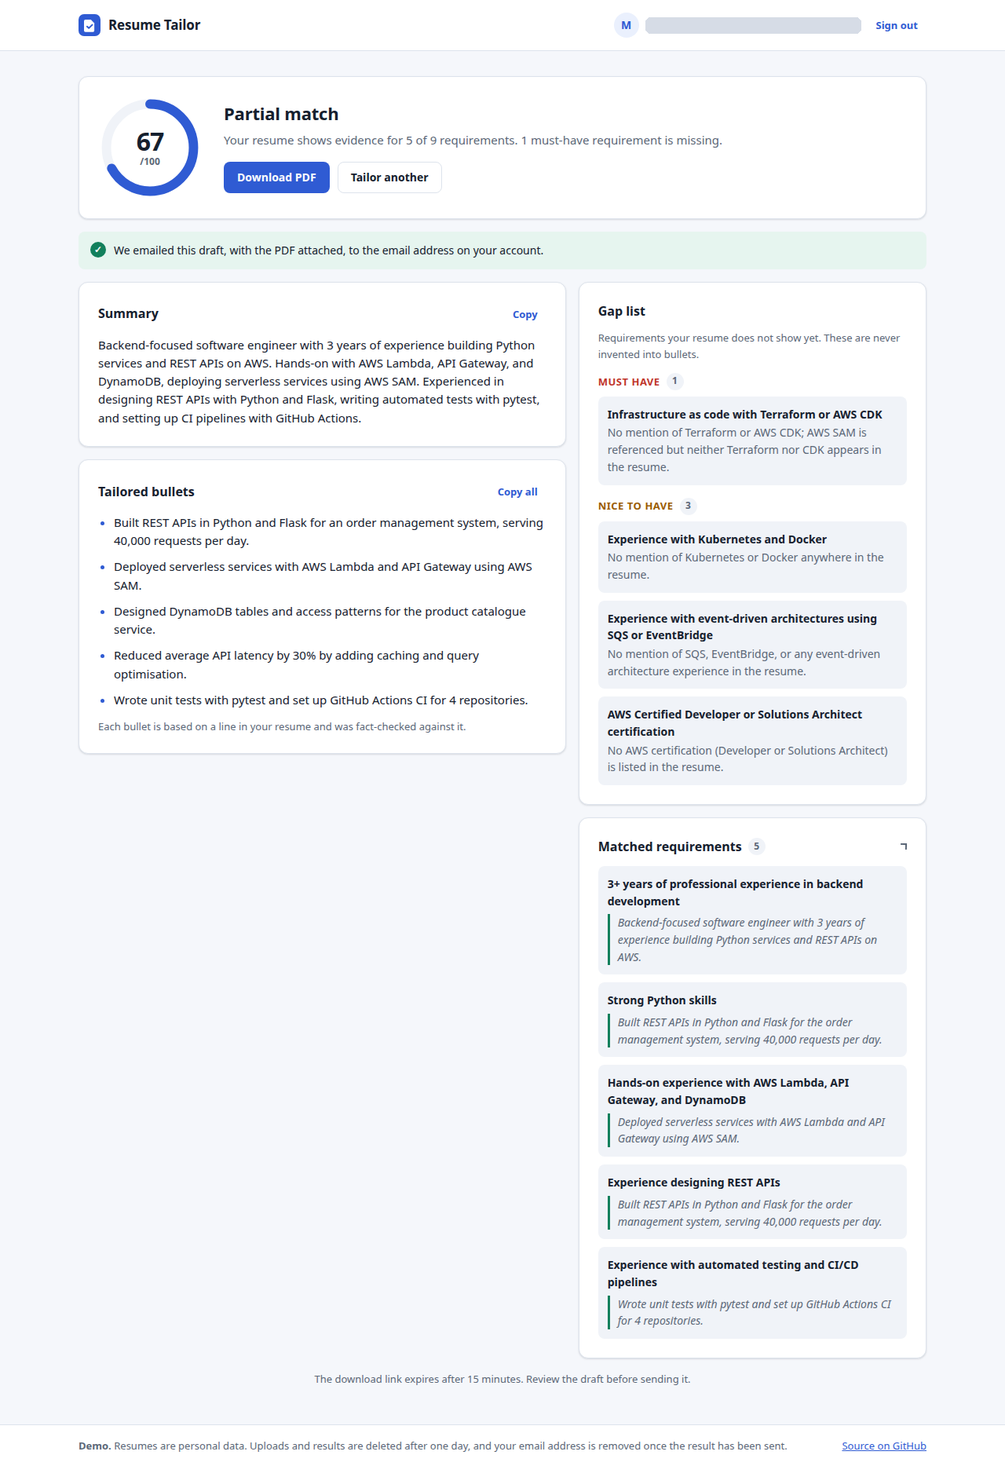
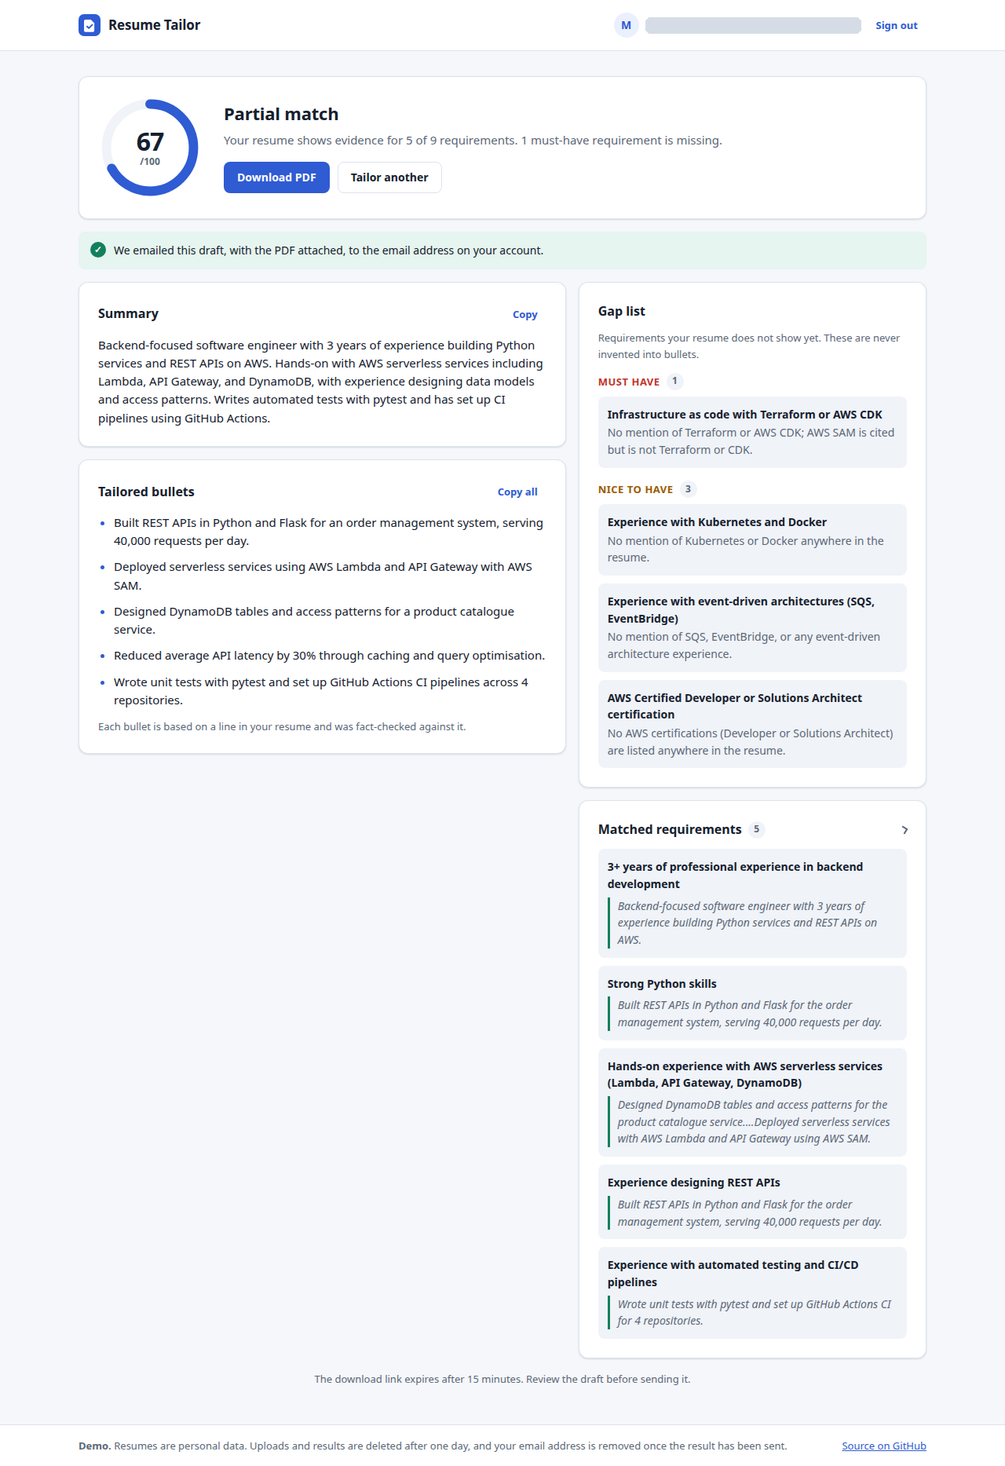
docs: README covers agent loop, tools, honesty test, forced failure, design questions; refresh demo evidence

diff --git a/README.md b/README.md
@@ -16,17 +16,19 @@ A multi-agent AWS pipeline that tailors a resume to a job description. Three spe
 
 1. [Architecture](#architecture)
 2. [How the pipeline works](#how-the-pipeline-works)
-3. [Honesty guardrail](#honesty-guardrail)
-4. [Reliability and security](#reliability-and-security)
-5. [Tech stack](#tech-stack)
-6. [Repository layout](#repository-layout)
-7. [Setup (local development)](#setup-local-development)
-8. [Deploy to AWS](#deploy-to-aws)
-9. [Demo](#demo)
-10. [Audit log: all 3 stages](#audit-log-all-3-stages)
-11. [GitHub](#github)
-12. [Known limitations](#known-limitations)
-13. [Spec exit check](#spec-exit-check)
+3. [Agents and tools](#agents-and-tools)
+4. [Honesty guardrail](#honesty-guardrail)
+5. [Reliability and security](#reliability-and-security)
+6. [Tech stack](#tech-stack)
+7. [Repository layout](#repository-layout)
+8. [Setup (local development)](#setup-local-development)
+9. [Deploy to AWS](#deploy-to-aws)
+10. [Demo](#demo)
+11. [Audit log: all 3 stages](#audit-log-all-3-stages)
+12. [GitHub](#github)
+13. [Known limitations](#known-limitations)
+14. [Design questions](#design-questions)
+15. [Spec and score sheet mapping](#spec-and-score-sheet-mapping)
 
 ## Architecture
 
@@ -80,38 +82,92 @@ stateDiagram-v2
 ## How the pipeline works
 
 1. **Sign in.** The user creates an account with email and password, confirms the emailed code, and signs in. The browser keeps the Cognito ID token in `sessionStorage`.
-2. **Submit.** The page posts the resume and job description to `POST /api/submit`. API Gateway rejects requests without a valid token. The submit Lambda takes the user id and verified email from the token claims (never from the request body), enforces 5 jobs per user per day, validates both documents, stores them in S3, creates the job in DynamoDB, starts the state machine, and returns a job id immediately. This avoids the 29 second API Gateway timeout.
+2. **Submit.** The page posts the resume and job description to `POST /api/submit`. API Gateway rejects requests without a valid token. The submit Lambda takes the user id and verified email from the token claims (never from the request body), enforces 5 jobs per user per day, validates both documents, stores them in S3, creates the job in DynamoDB, starts the state machine with `{jobId, inputs: {resume_key, job_key}}`, and returns a job id immediately. This avoids the 29 second API Gateway timeout.
 3. **Three specialists** run in order. The state object is the pipeline's memory: each stage's output is carried forward at `$.analysis`, `$.match` and `$.rewrite`.
 
-   | Stage | Reads | Produces | Focus |
+   | Stage | Tools it uses | Reads from state | Writes to state |
    |---|---|---|---|
-   | `analyzer` | job description (via the `read_inputs` tool) | requirements, each `must_have` or `nice_to_have` | extract only what the posting states |
-   | `scorer` | resume + requirements | matches with verbatim evidence, gaps with reasons, score 0-100 | judge only on evidence in the resume |
-   | `rewriter` | resume + matches + gaps | summary, bullets, PDF, email | reword existing facts, never invent |
-
-   The score is computed in code: `must_have` counts double, and a match only counts if its evidence quote really exists in the resume.
+   | `analyzer` | `read_inputs`, `extract_requirements` | `inputs` | `$.analysis` = requirements |
+   | `scorer` | `read_inputs`, `score_match` | `inputs`, `$.analysis` | `$.match` = score, matched, gaps |
+   | `rewriter` | `read_inputs`, rewrite + verify agents | `inputs`, `$.match` | `$.rewrite` = result, PDF key, email status |
 4. **Deliver.** The rewriter stores the PDF, emails the draft and gap list with the PDF attached, deletes the stored recipient address, and marks the job done. An email failure never fails the job.
 5. **Poll.** The page calls `GET /api/jobs/{id}` every 3 seconds. When the job is done, it renders the result, the email outcome and a fresh 15 minute presigned PDF link. Users can only read their own jobs.
 
+## Agents and tools
+
+### The bounded agent loop
+
+Every specialist runs the same loop ([`common/agent.py`](lambdas/src/common/agent.py)) on Bedrock tool use:
+
+1. Claude gets the stage's system prompt and the documents, plus one **answer tool** whose JSON Schema describes the result (`submit_requirements`, `submit_judgement`, `submit_draft`, `submit_verdict`). `toolChoice` forces it to answer through that tool.
+2. Code validates the call. A rejected call goes back to the model as an error `toolResult` that says exactly what is wrong.
+3. The loop **stops** on the first accepted answer, or raises `ModelOutputError` after `MAX_AGENT_ITERATIONS` (3) turns. Step Functions then retries the stage, and finally marks the job failed.
+
+From the demo run ([`docs/demo/agent-loop-log.txt`](docs/demo/agent-loop-log.txt)), the scorer's first answer quoted the resume inexactly, was sent back, and was corrected on turn 2:
+
+```
+agent=analyzer stop=answer_accepted turns=1
+agent=scorer turn=1/3 rejected: evidence for ['R3'] is not copied verbatim from the resume. Copy one exact sentence ...
+agent=scorer stop=answer_accepted turns=2
+agent=rewriter stop=answer_accepted turns=1
+agent=verifier stop=answer_accepted turns=1
+rewrite attempt=1 kept=5 dropped=1 summary_ok=True
+```
+
+### Specialist prompts
+
+Each specialist has its own focused system prompt in [`common/prompts.py`](lambdas/src/common/prompts.py):
+
+| Prompt | Role | Key rules |
+|---|---|---|
+| `ANALYZER` | requirements analyst | only requirements the posting states; classify must have / nice to have |
+| `SCORER` | strict resume screener | evidence must be a verbatim quote; no quote means not met |
+| `REWRITER` | resume editor | only facts in the resume; never mention gaps; no new numbers, outcomes or seniority |
+| `VERIFIER` | fact-checker | flag anything the resume does not support; when in doubt, flag it |
+
+All prompts mark the documents as untrusted data, not instructions.
+
+### Tools
+
+Defined in [`common/tools.py`](lambdas/src/common/tools.py). Each tool has a name, a description and a JSON Schema, and checks its arguments before running. Missing or empty input raises `InputError`, which fails the job with a user-facing message (it is not retried).
+
+| Tool | Kind | Input schema | Returns | On missing input |
+|---|---|---|---|---|
+| `read_inputs` | S3 read | `resume_key: string`, `job_key: string` (both required, must be under `uploads/`) | `{resume_text, job_text}`, both length-checked (50 to 15,000 characters) | "The job description is missing for this job. Please submit both a resume and a job description." |
+| `extract_requirements` | LLM-driven | `job_text: string` | `{requirements: [{id, text, category, type}]}`, ids `R1..Rn` assigned in code | "extract_requirements: required input 'job_text' is missing or empty." |
+| `score_match` | LLM-driven | `resume_text: string`, `requirements: array` | `{score, matched: [{id, requirement, category, evidence}], gaps: [{id, requirement, category, reason}]}` | "score_match: required input 'requirements' is missing or empty." |
+
+**Paste vs upload.** The form accepts pasted text or a `.txt` / `.md` file (read in the browser). Either way the submit API stores both documents at `uploads/<jobId>/resume.txt` and `uploads/<jobId>/job.txt`, and the state machine passes those keys to `read_inputs`. There is one input path into the pipeline.
+
+**Scoring.** `score_match` computes the score in code: `must_have` counts 2, `nice_to_have` counts 1, and a match only counts if its evidence is really in the resume. Non-verbatim evidence is first sent back to the model; anything that still does not match becomes a gap.
+
 ## Honesty guardrail
 
-The rewriter must never fabricate experience, skills or credentials. The prompt is only the first of five layers. Layers 2 to 4 are deterministic code, so they hold even if the model ignores its instructions.
+The rewriter must never fabricate experience, skills or credentials. The prompt is only the first layer; layers 2 to 5 are code, so they hold even if the model ignores its instructions.
 
 | # | Layer | Code |
 |---|---|---|
 | 1 | Prompt rules: gaps are passed as "do not mention or imply"; no new numbers, outcomes, scope or skill-level claims | `common/prompts.py` |
 | 2 | Every bullet must cite a `source_quote` that exists verbatim in the resume | `guardrails.quote_in_source` |
-| 3 | A number that is not in the resume drops the bullet or summary | `guardrails.numbers_supported` |
-| 4 | Claim words such as "production", "managed", "led", "expert", "improving" are only allowed if the resume uses them | `guardrails.unsupported_claims` |
-| 5 | A separate verifier call fact-checks the surviving draft and flags unsupported bullets | `rewriter.verify` |
+| 3 | A bullet or summary is rejected if it contains a number, a claim word ("production", "led", "expert", "improving", ...) or a **gap term** ("Kubernetes", "Terraform", ...) that the resume does not contain | `guardrails.numbers_supported`, `unsupported_claims`, `gap_terms` |
+| 4 | A separate verifier agent fact-checks the surviving draft and flags unsupported bullets | `rewriter.verify` |
+| 5 | Fail closed: with no honest bullet the job fails with a clear message. If only the summary keeps failing, it is replaced by verbatim resume sentences that matched the job | `rewriter.tailor` |
 
-Rejected content is fed back to the model (for example, "do not use these words: production, managed"), within a bounded loop. If nothing honest survives, the job fails with a clear message instead of returning invented content. Unmet requirements always appear in the gap list. In the [demo run](#audit-log-all-3-stages) the first draft had 3 bullets rejected; the second attempt kept 5 honest bullets.
+Rejected words are fed back to the model ("In the summary, remove: production, track record"). Unmet requirements always appear in the gap list.
+
+**Tested.** The acceptance test `test_jd_demanding_an_absent_skill_puts_it_in_gaps_never_in_bullets` ([`tests/test_rewriter.py`](lambdas/tests/test_rewriter.py)) gives the rewriter a job that wants Kubernetes and a model that keeps writing Kubernetes into bullets and the summary. Kubernetes stays in the gap list and appears nowhere in the output. In the live demo the job asks for Terraform/CDK, Kubernetes, Docker, SQS/EventBridge and an AWS certification, none of which the resume has. All of them are in the gap list and none in the draft ([`docs/demo/honesty-check.json`](docs/demo/honesty-check.json)):
+
+```json
+"gapTerms": ["Architect", "CDK", "Certified", "Docker", "EventBridge", "Infrastructure", "Kubernetes", "SQS", "Solutions", "Terraform"],
+"gapTermsFoundInDraft": [],
+"unsupportedClaimWordsInDraft": []
+```
 
 ## Reliability and security
 
 | Pattern | Implementation |
 |---|---|
-| Max iterations | `llm.converse_json` repairs invalid JSON at most `MAX_AGENT_ITERATIONS` (3) times. The rewriter's generate, filter and verify loop has the same cap. |
+| Max iterations | Every agent loop stops after `MAX_AGENT_ITERATIONS` (3) turns and raises `ModelOutputError`. The rewriter's generate, filter and verify loop has the same cap. |
 | Error recovery | Step Functions `Retry` with backoff and jitter on `ThrottledError`, `ModelOutputError` and Lambda service errors. `Catch` marks the job `FAILED`, keeping the clearest message. A missing document raises `InputError` with a user-facing message. |
 | Input guardrails | 50 to 15,000 characters per document, checked in the browser, the submit Lambda and the analyzer. Documents are wrapped as untrusted data in every prompt. |
 | Output guardrails | AWS keys, tokens, private keys and JWTs are redacted from results, emails and audit entries. |
@@ -120,6 +176,28 @@ Rejected content is fed back to the model (for example, "do not use these words:
 | Least privilege | One IAM role per Lambda. Only the three stages can call Bedrock. Only the rewriter can send email, and only from the configured sender. |
 | Privacy | S3 objects expire after 1 day, DynamoDB records after 30 days. The recipient address is deleted after sending. Step Functions logs errors only, without execution data. |
 | Web security | Private S3 behind CloudFront (OAC), HTTPS only, CSP, HSTS, `X-Frame-Options: DENY`, no third-party scripts or fonts. |
+
+### Forced-failure demo
+
+[`scripts/demo-reliability.sh`](scripts/demo-reliability.sh) runs against the deployed stack with your AWS CLI credentials:
+
+```bash
+AWS_PROFILE=<profile> scripts/demo-reliability.sh docs/demo
+```
+
+1. **Missing input.** It uploads only the resume and starts the pipeline. `read_inputs` raises `InputError`, the Analyze `Catch` fires, and the job is marked failed with a clear message.
+2. **Length cap.** It sends a 15,001-character resume to the submit Lambda, which returns 400 and stores nothing.
+
+Output from the real run ([`docs/demo/reliability-demo.json`](docs/demo/reliability-demo.json)):
+
+```json
+"statesEntered": ["Analyze", "MarkJobFailed", "PipelineFailed"],
+"stageError": {"error": "InputError", "message": "The job description is missing for this job. Please submit both a resume and a job description."},
+"job": {"status": "FAILED", "stage": "analyzer", "errorCode": "InputError", "errorMessage": "The job description is missing for this job. ..."},
+"lengthCap": {"statusCode": 400, "body": {"error": "The resume is too long (maximum 15000 characters)."}}
+```
+
+The page shows that message to the user. Max-iteration escalation is covered by `test_loop_is_bounded_and_escalates` in [`tests/test_agent.py`](lambdas/tests/test_agent.py).
 
 ## Tech stack
 
@@ -152,7 +230,7 @@ Rejected content is fed back to the model (for example, "do not use these words:
 │       └── styles/           design tokens and styles
 ├── lambdas/
 │   ├── src/
-│   │   ├── common/           config, errors, guardrails, llm, prompts, storage, jobs, mailer, pdf, http, stage
+│   │   ├── common/           agent (bounded loop), tools, guardrails, prompts, llm, storage, jobs, mailer, pdf, http, stage
 │   │   ├── analyzer/  scorer/  rewriter/     Step Functions stages
 │   │   └── submit/  status/                  API handlers
 │   ├── tests/                pytest suite (no AWS calls)
@@ -160,7 +238,8 @@ Rejected content is fed back to the model (for example, "do not use these words:
 ├── infra/                    CDK app
 │   ├── lib/constructs/       data, auth, functions, pipeline, api, frontend
 │   └── test/                 template assertions
-├── docs/demo/                screenshots, sample inputs, result, PDF and audit log from a real run
+├── scripts/                  demo-reliability.sh (forced failure + length cap)
+├── docs/demo/                screenshots, inputs, result, PDF, audit log, agent log, reliability and honesty evidence
 └── .github/                  CI workflow, Dependabot
 ```
 
@@ -291,18 +370,20 @@ Mobile layout: [`05-result-mobile.png`](docs/demo/screenshots/05-result-mobile.p
 - [`result.json`](docs/demo/result.json): the status API response (email status `SENT`)
 - [`tailored-resume.pdf`](docs/demo/tailored-resume.pdf): the generated PDF, also attached to the email
 - [`audit-log.json`](docs/demo/audit-log.json): the audit log described below
+- [`agent-loop-log.txt`](docs/demo/agent-loop-log.txt): CloudWatch lines showing each agent loop and the guardrail
+- [`honesty-check.json`](docs/demo/honesty-check.json) and [`reliability-demo.json`](docs/demo/reliability-demo.json): guardrail and forced-failure evidence
 
-Outcome: score **67/100**, 5 of 9 requirements matched, 5 tailored bullets, 4 gaps (Terraform/CDK is the missing must-have, because the resume only mentions AWS SAM). The whole pipeline took about 16 seconds.
+Outcome: score **67/100**, 5 of 9 requirements matched, 5 tailored bullets, 4 gaps (Terraform/CDK is the missing must-have, because the resume only mentions AWS SAM). The email arrived with the PDF attached. The whole pipeline took about 16 seconds.
 
 ## Audit log: all 3 stages
 
-Each stage writes its full output to the jobs table. The demo job `cdc641ec-c629-43cf-b79c-02db6eeb811f` has one entry per stage:
+Each stage writes its full output to the jobs table. The demo job `f859bfa1-81eb-44e1-89fa-372b3e952629` has one entry per stage:
 
 | Sort key | Stage | Recorded output |
 |---|---|---|
-| `AUDIT#2026-11-24T14:16:30.040+00:00#analyzer` | analyzer | 9 requirements (6 must have, 3 nice to have) |
-| `AUDIT#2026-11-24T14:16:34.431+00:00#scorer` | scorer | score 67, 5 matches with evidence, 4 gaps with reasons |
-| `AUDIT#2026-11-24T14:16:45.718+00:00#rewriter` | rewriter | final summary, bullets and gaps, PDF key, `emailStatus: SENT` |
+| `AUDIT#2026-11-24T17:13:41.464+00:00#analyzer` | analyzer | 9 requirements (6 must have, 3 nice to have) |
+| `AUDIT#2026-11-24T17:13:47.370+00:00#scorer` | scorer | score 67, 5 matches with evidence, 4 gaps with reasons |
+| `AUDIT#2026-11-24T17:13:54.122+00:00#rewriter` | rewriter | final summary, bullets and gaps, PDF key, `emailStatus: SENT` |
 
 Excerpts from [`docs/demo/audit-log.json`](docs/demo/audit-log.json):
 
@@ -319,17 +400,17 @@ Excerpts from [`docs/demo/audit-log.json`](docs/demo/audit-log.json):
  "matched": [{"id": "R1", "requirement": "3+ years of professional experience in backend development", "category": "must_have",
               "evidence": "Backend-focused software engineer with 3 years of experience building Python services and REST APIs on AWS."}],
  "gaps":    [{"id": "R5", "requirement": "Infrastructure as code with Terraform or AWS CDK", "category": "must_have",
-              "reason": "No mention of Terraform or AWS CDK; AWS SAM is referenced but neither Terraform nor CDK appears in the resume."}]}
+              "reason": "No mention of Terraform or AWS CDK; AWS SAM is cited but is not Terraform or CDK."}]}
 
 // rewriter
-{"resultKey": "results/cdc641ec-c629-43cf-b79c-02db6eeb811f.pdf",
+{"resultKey": "results/f859bfa1-81eb-44e1-89fa-372b3e952629.pdf",
  "emailStatus": "SENT",
  "result": {"score": 67, "summary": "Backend-focused software engineer with 3 years of experience ...",
             "bullets": ["Built REST APIs in Python and Flask for an order management system, serving 40,000 requests per day.", "..."],
             "gaps": ["..."], "matched": ["..."]}}
 ```
 
-The rewriter's CloudWatch log for the same job shows the guardrail loop: `attempt=1 kept=3 dropped=3`, then `attempt=2 kept=5 dropped=1`.
+The CloudWatch log for the same job shows the rewriter guardrail: `attempt=1 kept=5 dropped=1 summary_ok=True` (one unsupported bullet removed).
 
 Export the audit log for any job:
 
@@ -359,22 +440,44 @@ Repository: https://github.com/Chakravardhan-04/resume-tailor
 
 - Self sign-up is open. Daily limits and throttling cap Bedrock cost per user, but not the number of accounts. Add an AWS Budgets alarm, and consider invite-only sign-up or AWS WAF.
 - Password reset and MFA are not implemented. Cognito's default email sender allows about 50 verification emails per day; configure Cognito to use SES for more.
-- Input is plain text or a `.txt` / `.md` file. PDF and DOCX parsing is not implemented.
+- Input is plain text or a `.txt` / `.md` file read in the browser. PDF and DOCX parsing, and the stretch option of presigned S3 upload with an S3 event trigger, are not implemented.
 - The API Gateway endpoint can also be called directly (still authenticated). CloudFront uses its default certificate, so the minimum TLS version is fixed at TLSv1 until a custom domain and ACM certificate are added.
 - Prompt injection inside a document cannot be ruled out entirely. The deterministic checks limit what it can do to the output.
 
-## Spec exit check
+## Design questions
+
+**Why a pipeline of specialists, not one agent?** Each step has a different job and a different failure mode. Separate prompts stay short and strict, each output is checked in code before the next stage sees it, each stage is retried on its own, and the audit log shows exactly which stage produced what. One agent would mix extraction, judging and writing in one context, which makes it more likely to "find" evidence for the rewrite it wants to produce.
+
+**How does state pass between stages?** Step Functions carries one JSON object: `{jobId, inputs}` from submit, then `$.analysis`, `$.match` and `$.rewrite` added by each stage (`resultPath`). The documents themselves stay in S3; the state holds their keys.
+
+**How does the poller read status?** Each stage writes `stage` to the job's `META` item in DynamoDB. The status Lambda reads that item (only for the job's owner) and returns status, stage, the result and a fresh presigned PDF link. The page calls it every 3 seconds.
+
+**Bedrock auth.** No API key exists anywhere. The three stage Lambdas call Bedrock with their IAM roles, which allow `bedrock:InvokeModel` on the `us.anthropic.claude-sonnet-4-6` inference profile only. The submit and status Lambdas have no Bedrock permission at all.
+
+**Hardest part.** Honesty. The model kept adding small embellishments ("production-grade", "track record", "at scale") that a prompt alone did not stop. The fix was deterministic checks, specific feedback, and a verbatim fallback for the summary.
+
+**What is simplified.** The demo resume is fictional; files are text only; there is no password reset or MFA. The claim-word list in `guardrails.py` is hand-written and can miss new phrasings, which is why the verifier agent exists as a second check.
+
+**What breaks under load.** Bedrock tokens-per-minute quotas are the first limit: each job makes about 4 to 6 model calls. Throttling becomes `ThrottledError`, which Step Functions retries with backoff, but sustained overload will fail jobs. Next come Lambda account concurrency and SES sending limits (200 per day in sandbox). API throttling (submit 1 req/s, burst 3) and the 5 jobs per user per day cap protect the stack today. To scale: request higher Bedrock quotas, queue submissions (SQS in front of Step Functions), and move SES out of sandbox.
+
+## Spec and score sheet mapping
 
 | Requirement | Where |
 |---|---|
-| Three specialist Lambdas, each with its own focused prompt | `lambdas/src/{analyzer,scorer,rewriter}`, `common/prompts.py` |
+| Three specialist Lambdas, each with its own focused system prompt | `lambdas/src/{analyzer,scorer,rewriter}`, [Specialist prompts](#specialist-prompts) |
+| Each stage a real bounded loop that stops correctly | [The bounded agent loop](#the-bounded-agent-loop), `tests/test_agent.py`, `docs/demo/agent-loop-log.txt` |
+| Tools `read_inputs`, `extract_requirements`, `score_match` with descriptions and schemas | [Tools](#tools), `common/tools.py`, `tests/test_tools.py` |
 | Step Functions chains analyze → score → rewrite with Retry/Catch | `infra/lib/constructs/pipeline.ts`, asserted in `infra/test/stack.test.ts` |
-| All four Day-4 reliability patterns | [Reliability and security](#reliability-and-security) |
-| Honesty guardrail (no fabricated experience, gaps listed) | [Honesty guardrail](#honesty-guardrail), `lambdas/tests/test_rewriter.py` |
-| `cdk deploy` stands up the whole stack | [Deploy to AWS](#deploy-to-aws) |
-| Claude via Bedrock `converse()`, no API key | `common/llm.py` |
-| Submit → poll → draft + gap list render; email arrives | [Demo](#demo) |
-| README with architecture diagram and deploy steps | this file |
-| Code on GitHub | https://github.com/Chakravardhan-04/resume-tailor |
+| Max iterations · Retry/Catch · input/output guardrails · audit log | [Reliability and security](#reliability-and-security) |
+| Forced failure (Catch fires, missing input escalates) | [Forced-failure demo](#forced-failure-demo), `docs/demo/reliability-demo.json` |
+| Honesty guardrail, tested | [Honesty guardrail](#honesty-guardrail), `docs/demo/honesty-check.json` |
+| `cdk deploy` stands up the whole stack, incl. state machine | [Deploy to AWS](#deploy-to-aws) |
+| Claude via Bedrock `converse()`, IAM role, no API key | `common/llm.py`, [Design questions](#design-questions) |
+| Submit → poll → draft + gap list render; email arrives | [Demo](#demo) (`result.json`: email `SENT`) |
+| README: diagram, setup, deploy steps, demo, audit log all 3 stages, GitHub | this file |
 | Screenshot of a tailored draft + gap list | `docs/demo/screenshots/04-result.png` |
 | Audit log from one real run (all three stages) | [`docs/demo/audit-log.json`](docs/demo/audit-log.json) |
+| Stretch: Step Functions pipeline, async status poller, S3 static hosting | implemented (S3 site bucket behind CloudFront) |
+| Stretch: presigned S3 upload + S3 event | not implemented |
+
+**Differences from the spec.** Sign-in (Cognito) was added, so the result is emailed to the account's verified address instead of an email typed into the form; this also stops the form from being used to email strangers. There is a fifth Lambda (`submit`) that starts the state machine. The site is served from S3 through CloudFront rather than S3 website hosting, so the bucket stays private.
